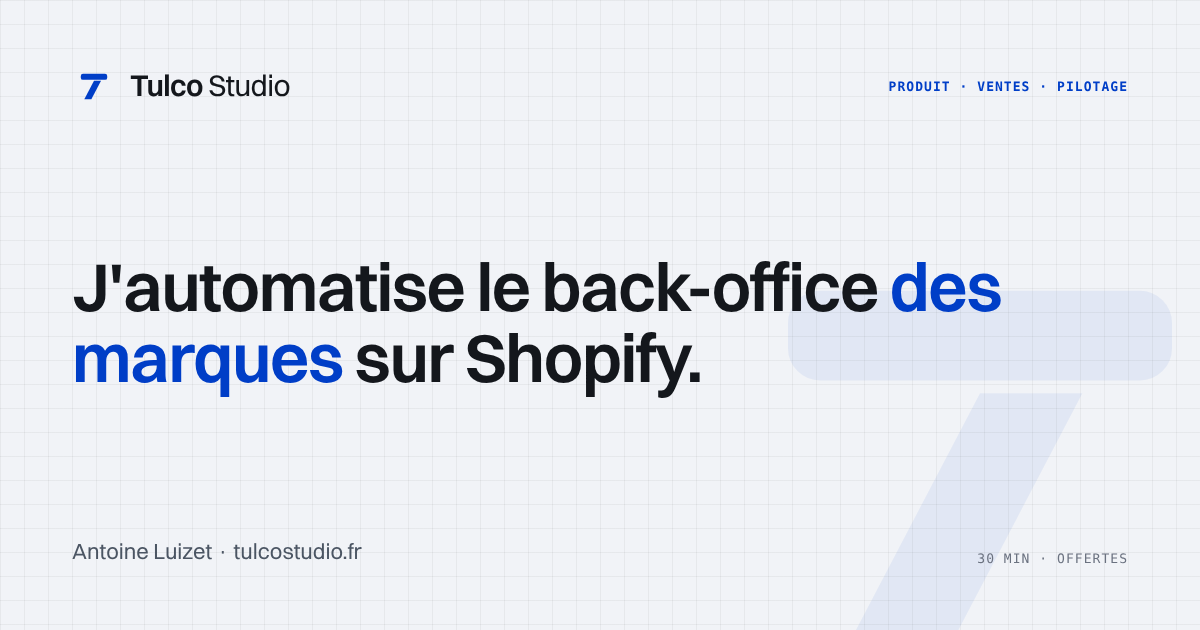
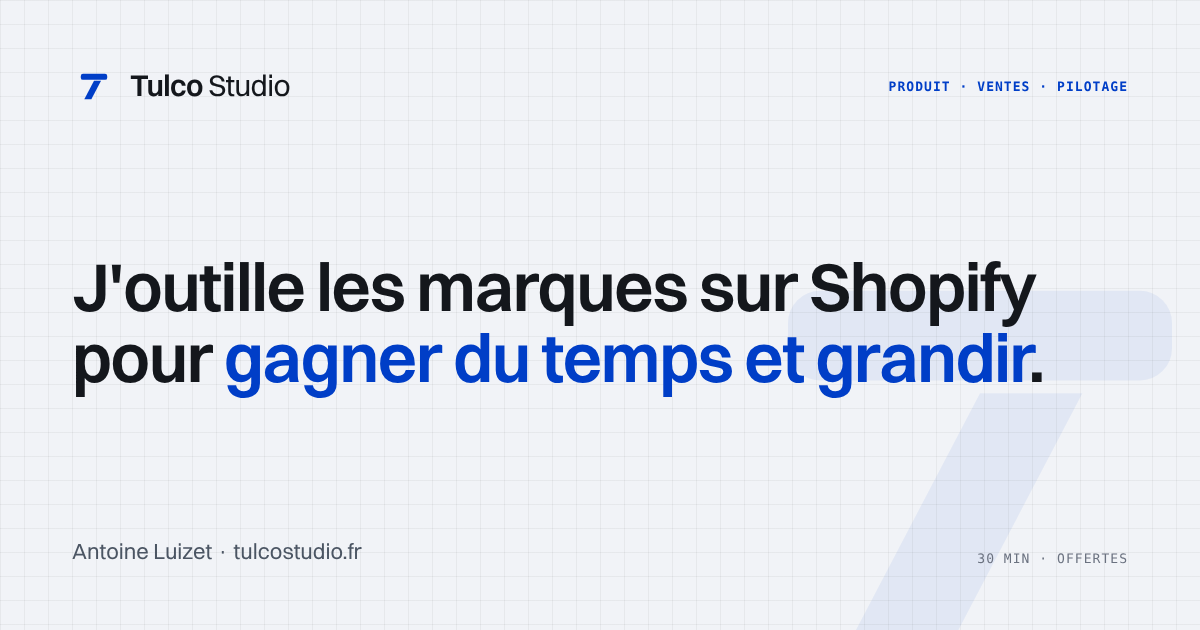
Aligne la landing sur le positionnement v4
Titre, meta, hero, appels à l'action et pied de page passent de
"J'automatise le back-office" à "J'outille les marques sur Shopify
pour gagner du temps et grandir". Constat élargi aux outils rigides et
aux abonnements qui s'empilent, FAQ alignée (sur mesure quand le marché
ne colle pas), images de partage régénérées. FR et EN.

Claude-Session: https://claude.ai/code/session_01DhS4ZWpCwXbypMJPZ8nMSC

Changed region(s): [[0.0617, 0.3921, 0.8633, 0.6333], [0.0925, 0.4524, 0.1542, 0.4825]]

diff --git a/index.html b/index.html
@@ -4,8 +4,8 @@
 <meta charset="utf-8">
 <meta name="viewport" content="width=device-width, initial-scale=1">
 <link rel="icon" type="image/svg+xml" href="favicon.svg">
-<title>Tulco Studio · J'automatise le back-office des marques sur Shopify</title>
-<meta name="description" content="Fiches produit rédigées par l'IA, commandes revendeurs, reporting : j'automatise le back-office des marques sur Shopify pour que vos équipes arrêtent de ressaisir. Ex chef de produit retail.">
+<title>Tulco Studio · J'outille les marques sur Shopify pour gagner du temps et grandir</title>
+<meta name="description" content="Ex-chef de produit retail et product builder, j'outille les marques sur Shopify : outils reliés entre eux, sur mesure quand le marché ne colle pas. Vos équipes arrêtent de ressaisir et gagnent du temps pour grandir.">
 <link rel="canonical" href="https://www.tulcostudio.fr/">
 <link rel="alternate" hreflang="fr" href="https://www.tulcostudio.fr/">
 <link rel="alternate" hreflang="en" href="https://www.tulcostudio.fr/en/">
@@ -13,16 +13,16 @@
 <meta property="og:type" content="website">
 <meta property="og:url" content="https://www.tulcostudio.fr/">
 <meta property="og:site_name" content="Tulco Studio">
-<meta property="og:title" content="Tulco Studio · J'automatise le back-office des marques sur Shopify">
-<meta property="og:description" content="Vos outils se parlent enfin, vos fiches produit s'écrivent seules. Vos équipes arrêtent de ressaisir et se concentrent sur la marque.">
+<meta property="og:title" content="Tulco Studio · J'outille les marques sur Shopify pour gagner du temps et grandir">
+<meta property="og:description" content="Vos commandes, vos stocks et vos fiches produit circulent seuls entre Shopify et vos autres outils. Vos équipes arrêtent de ressaisir et se concentrent sur la marque.">
 <meta property="og:image" content="https://www.tulcostudio.fr/og.png">
 <meta property="og:image:width" content="1200">
 <meta property="og:image:height" content="630">
-<meta property="og:image:alt" content="Tulco Studio : automatisation du back-office des marques sur Shopify">
+<meta property="og:image:alt" content="Tulco Studio : j'outille les marques sur Shopify pour gagner du temps et grandir">
 <meta property="og:locale" content="fr_FR">
 <meta name="twitter:card" content="summary_large_image">
-<meta name="twitter:title" content="Tulco Studio · J'automatise le back-office des marques sur Shopify">
-<meta name="twitter:description" content="Vos outils se parlent enfin, vos fiches produit s'écrivent seules. Vos équipes arrêtent de ressaisir et se concentrent sur la marque.">
+<meta name="twitter:title" content="Tulco Studio · J'outille les marques sur Shopify pour gagner du temps et grandir">
+<meta name="twitter:description" content="Vos commandes, vos stocks et vos fiches produit circulent seuls entre Shopify et vos autres outils. Vos équipes arrêtent de ressaisir et se concentrent sur la marque.">
 <meta name="twitter:image" content="https://www.tulcostudio.fr/og.png">
 <script src="./support.js"></script>
 </head>
@@ -102,6 +102,7 @@
   .tulco-motion .pain-card.tulco-in > div:nth-child(2) { transition-delay: 140ms; }
   .tulco-motion .pain-card.tulco-in > div:nth-child(3) { transition-delay: 280ms; }
   .tulco-motion .pain-card.tulco-in > div:nth-child(4) { transition-delay: 420ms; }
+  .tulco-motion .pain-card.tulco-in > div:nth-child(5) { transition-delay: 560ms; }
   .method-step { position: relative; }
   .tulco-motion .method-step { border-top-color: transparent !important; }
   .tulco-motion .method-step::before { content: ""; position: absolute; left: 0; right: 0; top: calc(-1 * var(--rule-accent)); height: var(--rule-accent); background: var(--accent); transform: scaleX(0); transform-origin: left; }
@@ -226,10 +227,10 @@
     <div style="position: relative; max-width: var(--container-max); margin: 0 auto; padding: clamp(48px,7vw,84px) clamp(20px,5vw,64px) clamp(44px,6vw,72px);">
       <div style="max-width: 900px;">
         <div style="font-family: var(--font-mono); font-size: 12px; font-weight: 600; text-transform: uppercase; letter-spacing: 0.08em; color: var(--accent); margin-bottom: 16px;">Antoine Luizet · Ex-chef de produit retail</div>
-        <h1 style="margin: 0; font-weight: 600; font-size: clamp(36px,6vw,78px); line-height: var(--leading-tight); letter-spacing: var(--tracking-display); color: var(--text-primary);">J'automatise le back-office des marques <span class="nowrap">sur <img src="assets/shopify-logo-mono.svg" alt="Shopify" class="h1-shopify" width="446" height="128"></span></h1>
-        <p style="margin: 24px 0 0; max-width: 620px; font-size: var(--text-lg); line-height: 1.35; color: var(--text-secondary); font-weight: 500;">Vos outils se parlent enfin, vos fiches produit s'écrivent seules. Vos équipes arrêtent de ressaisir et se concentrent sur la marque.</p>
+        <h1 style="margin: 0; font-weight: 600; font-size: clamp(36px,6vw,78px); line-height: var(--leading-tight); letter-spacing: var(--tracking-display); color: var(--text-primary);">J'outille les marques <span class="nowrap">sur <img src="assets/shopify-logo-mono.svg" alt="Shopify" class="h1-shopify" width="446" height="128"></span> pour gagner du temps et grandir</h1>
+        <p style="margin: 24px 0 0; max-width: 620px; font-size: var(--text-lg); line-height: 1.35; color: var(--text-secondary); font-weight: 500;">Vos commandes, vos stocks et vos fiches produit circulent seuls entre Shopify et vos autres outils. Vos équipes arrêtent de ressaisir et se concentrent sur la marque.</p>
         <div class="hero-cta">
-          <x-import component-from-global-scope="TulcoStudioDesignSystem_ac5776.Button" variant="primary" size="lg" onClick="{{ openBooking }}" hint-size="340px,50px">Voir ce qu'on automatiserait en premier</x-import>
+          <x-import component-from-global-scope="TulcoStudioDesignSystem_ac5776.Button" variant="primary" size="lg" onClick="{{ openBooking }}" hint-size="340px,50px">Voir par où je commencerais</x-import>
           <x-import component-from-global-scope="TulcoStudioDesignSystem_ac5776.Button" variant="secondary" size="lg" onClick="{{ jumpFlux }}" hint-size="240px,50px">Découvrir les trois flux</x-import>
         </div>
         <div class="hero-flux">
@@ -246,7 +247,7 @@
       <div>
         <div style="font-family: var(--font-mono); font-size: 12px; font-weight: 600; text-transform: uppercase; letter-spacing: 0.08em; color: var(--accent); margin-bottom: 16px;">Le constat</div>
         <h2 style="margin: 0 0 20px; font-weight: 600; font-size: clamp(26px,4vw,42px); letter-spacing: var(--tracking-heading); max-width: 520px;">Tout passe encore par des fichiers.</h2>
-        <p style="margin: 0; font-size: var(--text-md); line-height: var(--leading-relaxed); color: var(--text-primary); max-width: 460px; font-weight: 500;">Chaque copie crée une erreur. Et une erreur de stock ou de commande, c'est un revendeur qui se lasse.</p>
+        <p style="margin: 0; font-size: var(--text-md); line-height: var(--leading-relaxed); color: var(--text-primary); max-width: 460px; font-weight: 500;">Des outils payés cher, rigides, pas pensés pour votre métier : l'équipe les contourne avec des fichiers. Chaque copie crée une erreur, et une erreur de stock ou de commande, c'est un revendeur qui se lasse.</p>
       </div>
       <div data-reveal="" class="pain-card" style="background: var(--white); border: 1px solid var(--border-default); border-top: var(--rule-accent) solid var(--danger);">
         <div style="display: flex; gap: 14px; align-items: flex-start; padding: var(--space-5) var(--space-6); border-bottom: 1px solid var(--border-default);">
@@ -261,9 +262,13 @@
           <span style="flex: none; width: 8px; height: 8px; margin-top: 7px; background: var(--danger);"></span>
           <p style="margin: 0; font-size: var(--text-sm); line-height: 1.6; color: var(--text-primary);">Le stock ne suit pas entre Shopify, la boutique et l'entrepôt.</p>
         </div>
-        <div style="display: flex; gap: 14px; align-items: flex-start; padding: var(--space-5) var(--space-6);">
+        <div style="display: flex; gap: 14px; align-items: flex-start; padding: var(--space-5) var(--space-6); border-bottom: 1px solid var(--border-default);">
           <span style="flex: none; width: 8px; height: 8px; margin-top: 7px; background: var(--danger);"></span>
           <p style="margin: 0; font-size: var(--text-sm); line-height: 1.6; color: var(--text-primary);">Le lundi, on compile cinq fichiers pour savoir ce qui s'est vendu.</p>
+        </div>
+        <div style="display: flex; gap: 14px; align-items: flex-start; padding: var(--space-5) var(--space-6);">
+          <span style="flex: none; width: 8px; height: 8px; margin-top: 7px; background: var(--danger);"></span>
+          <p style="margin: 0; font-size: var(--text-sm); line-height: 1.6; color: var(--text-primary);">Les abonnements s'empilent, pour des outils rigides que l'équipe contourne avec Excel.</p>
         </div>
       </div>
     </div>
@@ -271,7 +276,7 @@
   <!-- LES TROIS FLUX -->
   <section id="flux" data-screen-label="Flux" style="border-bottom: 1px solid var(--border-default);">
     <div style="max-width: var(--container-max); margin: 0 auto; padding: clamp(48px,8vw,96px) clamp(20px,5vw,64px);">
-      <div style="font-family: var(--font-mono); font-size: 12px; font-weight: 600; text-transform: uppercase; letter-spacing: 0.08em; color: var(--accent); margin-bottom: 16px;">Ce que j'automatise</div>
+      <div style="font-family: var(--font-mono); font-size: 12px; font-weight: 600; text-transform: uppercase; letter-spacing: 0.08em; color: var(--accent); margin-bottom: 16px;">Ce que je mets en place</div>
       <h2 style="margin: 0 0 clamp(36px,5vw,56px); font-weight: 600; font-size: clamp(26px,4vw,42px); letter-spacing: var(--tracking-heading); max-width: 720px;">Trois flux. Une info saisie une fois, juste partout.</h2>
       <div data-reveal="" style="border: 1px solid var(--border-default); border-top: var(--rule-accent) solid var(--accent);">
         <div class="flux-grid">
@@ -323,7 +328,7 @@
           <img src="assets/antoine.png" alt="Antoine Luizet, fondateur de Tulco Studio" style="width: 200px; height: 200px; max-width: 100%; border-radius: 50%; display: block; border: 2px solid var(--accent);">
           <div>
             <div style="font-weight: 600; font-size: var(--text-lg); letter-spacing: var(--tracking-normal);">Antoine Luizet</div>
-            <div style="font-family: var(--font-mono); font-size: 12px; text-transform: uppercase; letter-spacing: 0.04em; color: var(--text-tertiary); margin-top: 5px;">Fondateur · Tulco Studio</div>
+            <div style="font-family: var(--font-mono); font-size: 12px; text-transform: uppercase; letter-spacing: 0.04em; color: var(--text-tertiary); margin-top: 5px;">Product builder freelance · Tulco Studio</div>
           </div>
         </div>
         <p style="margin: 0; max-width: 600px; font-size: var(--text-lg); line-height: 1.45; color: var(--text-primary); font-weight: 500;">J'ai passé 8 ans du côté des marques avant de construire des outils. Je parle collection, revendeurs et stocks, et je sais les traduire en flux qui tournent.</p>
@@ -525,7 +530,7 @@
     <div style="max-width: var(--container-max); margin: 0 auto; padding: clamp(52px,8vw,104px) clamp(20px,5vw,64px);">
       <div style="max-width: 720px;">
         <h2 style="margin: 0; font-weight: 600; font-size: clamp(28px,4.4vw,52px); line-height: var(--leading-tight); letter-spacing: var(--tracking-heading);">Vos équipes passent trop de temps à ressaisir ?</h2>
-        <p style="margin: 20px 0 0; font-size: var(--text-md); line-height: var(--leading-relaxed); color: rgba(255,255,255,0.82); max-width: 600px;">En 30 minutes, on regarde ce qu'on automatiserait en premier. Offert, sans engagement.</p>
+        <p style="margin: 20px 0 0; font-size: var(--text-md); line-height: var(--leading-relaxed); color: rgba(255,255,255,0.82); max-width: 600px;">En 30 minutes, on regarde par où je commencerais chez vous. Offert, sans engagement.</p>
         <div style="display: flex; gap: 12px; margin-top: 32px; flex-wrap: wrap; align-items: center;">
           <x-import component-from-global-scope="TulcoStudioDesignSystem_ac5776.Button" variant="secondary" size="lg" onClick="{{ openBooking }}" hint-size="220px,50px">Réserver 30 minutes</x-import>
           <span style="font-family: var(--font-mono); font-size: 11px; text-transform: uppercase; letter-spacing: 0.05em; color: rgba(255,255,255,0.6);">Antoine Luizet · Tulco Studio · Biarritz, France</span>
@@ -538,7 +543,7 @@
     <div style="max-width: var(--container-max); margin: 0 auto; display: flex; flex-wrap: wrap; gap: 48px; justify-content: space-between;">
       <div style="max-width: 360px; display: flex; flex-direction: column; gap: 16px;">
         <x-import component-from-global-scope="TulcoStudioDesignSystem_ac5776.Logo" variant="horizontal" tone="white" height="24" hint-size="150px,24px"></x-import>
-        <p style="margin: 0; font-size: var(--text-sm); line-height: 1.6; color: rgba(255,255,255,0.6);">J'automatise le back-office des marques sur Shopify : produit, ventes, pilotage.</p>
+        <p style="margin: 0; font-size: var(--text-sm); line-height: 1.6; color: rgba(255,255,255,0.6);">J'outille les marques sur Shopify pour gagner du temps et grandir : produit, ventes, pilotage.</p>
       </div>
       <div style="display: flex; gap: 64px; flex-wrap: wrap;">
         <div style="display: flex; flex-direction: column; gap: 10px;">
@@ -663,8 +668,8 @@ class Component extends DCLogic {
   renderVals() {
     const items = [
       { q: "Ça va coûter cher ?", a: "On commence par un seul flux, celui qui coûte le plus en ressaisie. Le diagnostic chiffre le gain avant que vous vous engagiez." },
-      { q: "Vous êtes une agence Shopify ?", a: "Non. Les agences Shopify font le site et la conversion. Moi, je branche Shopify au reste du back-office : ERP, PIM, CRM, expéditions, pilotage." },
-      { q: "Faut-il changer d'outils ?", a: "Non. Vos outils existants d'abord, du sur mesure seulement là où il manque quelque chose." },
+      { q: "Vous êtes une agence Shopify ?", a: "Non. Les agences Shopify font le site et la conversion. Moi, je relie Shopify au reste de vos outils : ERP, PIM, CRM, expéditions, pilotage. Et je développe sur mesure ce qui manque." },
+      { q: "Faut-il changer d'outils ?", a: "Non. Vos outils existants d'abord, et des outils sur mesure là où ceux du marché ne collent pas à votre métier." },
       { q: "Il existe déjà une app pour relier Shopify à mon ERP.", a: "Oui, pour synchroniser deux outils. Le vrai sujet, c'est le flux entier et vos règles métier." },
       { q: "Shopify rédige déjà des descriptions, non ?", a: "Shopify propose un assistant de rédaction. Ici, chaque fiche arrive déjà rédigée depuis vos données de collection, SEO compris, dans le ton de la marque." },
       { q: "Combien de temps ça prend ?", a: "Un flux à la fois, livré par petits lots. Vos équipes s'en servent vite, sans tunnel de plusieurs mois." },

diff --git a/en/index.html b/en/index.html
@@ -4,8 +4,8 @@
 <meta charset="utf-8">
 <meta name="viewport" content="width=device-width, initial-scale=1">
 <link rel="icon" type="image/svg+xml" href="../favicon.svg">
-<title>Tulco Studio · Back-office automation for Shopify brands</title>
-<meta name="description" content="AI-written product listings, wholesale orders, reporting: I automate the back office behind Shopify brands so your team stops re-keying data. Former retail product manager.">
+<title>Tulco Studio · I equip Shopify brands to save time and grow</title>
+<meta name="description" content="Former retail product manager and product builder, I equip Shopify brands with tools that work together, custom-built when off-the-shelf doesn't fit. Your team stops re-keying data and gains time to grow.">
 <link rel="canonical" href="https://www.tulcostudio.fr/en/">
 <link rel="alternate" hreflang="fr" href="https://www.tulcostudio.fr/">
 <link rel="alternate" hreflang="en" href="https://www.tulcostudio.fr/en/">
@@ -13,16 +13,16 @@
 <meta property="og:type" content="website">
 <meta property="og:url" content="https://www.tulcostudio.fr/en/">
 <meta property="og:site_name" content="Tulco Studio">
-<meta property="og:title" content="Tulco Studio · Back-office automation for Shopify brands">
-<meta property="og:description" content="Your tools finally talk to each other, your product pages write themselves. Your team stops re-keying data and focuses on the brand.">
+<meta property="og:title" content="Tulco Studio · I equip Shopify brands to save time and grow">
+<meta property="og:description" content="Your orders, stock and product pages flow on their own between Shopify and your other tools. Your team stops re-keying data and focuses on the brand.">
 <meta property="og:image" content="https://www.tulcostudio.fr/og-en.png">
 <meta property="og:image:width" content="1200">
 <meta property="og:image:height" content="630">
-<meta property="og:image:alt" content="Tulco Studio: back-office automation for Shopify brands">
+<meta property="og:image:alt" content="Tulco Studio: I equip Shopify brands to save time and grow">
 <meta property="og:locale" content="en_GB">
 <meta name="twitter:card" content="summary_large_image">
-<meta name="twitter:title" content="Tulco Studio · Back-office automation for Shopify brands">
-<meta name="twitter:description" content="Your tools finally talk to each other, your product pages write themselves. Your team stops re-keying data and focuses on the brand.">
+<meta name="twitter:title" content="Tulco Studio · I equip Shopify brands to save time and grow">
+<meta name="twitter:description" content="Your orders, stock and product pages flow on their own between Shopify and your other tools. Your team stops re-keying data and focuses on the brand.">
 <meta name="twitter:image" content="https://www.tulcostudio.fr/og-en.png">
 <script src="../support.js"></script>
 </head>
@@ -102,6 +102,7 @@
   .tulco-motion .pain-card.tulco-in > div:nth-child(2) { transition-delay: 140ms; }
   .tulco-motion .pain-card.tulco-in > div:nth-child(3) { transition-delay: 280ms; }
   .tulco-motion .pain-card.tulco-in > div:nth-child(4) { transition-delay: 420ms; }
+  .tulco-motion .pain-card.tulco-in > div:nth-child(5) { transition-delay: 560ms; }
   .method-step { position: relative; }
   .tulco-motion .method-step { border-top-color: transparent !important; }
   .tulco-motion .method-step::before { content: ""; position: absolute; left: 0; right: 0; top: calc(-1 * var(--rule-accent)); height: var(--rule-accent); background: var(--accent); transform: scaleX(0); transform-origin: left; }
@@ -226,10 +227,10 @@
     <div style="position: relative; max-width: var(--container-max); margin: 0 auto; padding: clamp(48px,7vw,84px) clamp(20px,5vw,64px) clamp(44px,6vw,72px);">
       <div style="max-width: 900px;">
         <div style="font-family: var(--font-mono); font-size: 12px; font-weight: 600; text-transform: uppercase; letter-spacing: 0.08em; color: var(--accent); margin-bottom: 16px;">Antoine Luizet · Ex-retail product lead</div>
-        <h1 style="margin: 0; font-weight: 600; font-size: clamp(36px,6vw,78px); line-height: var(--leading-tight); letter-spacing: var(--tracking-display); color: var(--text-primary);">I automate the back office of brands <span class="nowrap">on <img src="../assets/shopify-logo-mono.svg" alt="Shopify" class="h1-shopify" width="446" height="128"></span></h1>
-        <p style="margin: 24px 0 0; max-width: 620px; font-size: var(--text-lg); line-height: 1.35; color: var(--text-secondary); font-weight: 500;">Your tools finally talk to each other, your product pages write themselves. Your team stops re-keying data and focuses on the brand.</p>
+        <h1 style="margin: 0; font-weight: 600; font-size: clamp(36px,6vw,78px); line-height: var(--leading-tight); letter-spacing: var(--tracking-display); color: var(--text-primary);">I equip brands <span class="nowrap">on <img src="../assets/shopify-logo-mono.svg" alt="Shopify" class="h1-shopify" width="446" height="128"></span> to save time and grow</h1>
+        <p style="margin: 24px 0 0; max-width: 620px; font-size: var(--text-lg); line-height: 1.35; color: var(--text-secondary); font-weight: 500;">Your orders, stock and product pages flow on their own between Shopify and your other tools. Your team stops re-keying data and focuses on the brand.</p>
         <div class="hero-cta">
-          <x-import component-from-global-scope="TulcoStudioDesignSystem_ac5776.Button" variant="primary" size="lg" onClick="{{ openBooking }}" hint-size="340px,50px">See what we'd automate first</x-import>
+          <x-import component-from-global-scope="TulcoStudioDesignSystem_ac5776.Button" variant="primary" size="lg" onClick="{{ openBooking }}" hint-size="340px,50px">See where I'd start</x-import>
           <x-import component-from-global-scope="TulcoStudioDesignSystem_ac5776.Button" variant="secondary" size="lg" onClick="{{ jumpFlux }}" hint-size="240px,50px">Explore the three flows</x-import>
         </div>
         <div class="hero-flux">
@@ -246,7 +247,7 @@
       <div>
         <div style="font-family: var(--font-mono); font-size: 12px; font-weight: 600; text-transform: uppercase; letter-spacing: 0.08em; color: var(--accent); margin-bottom: 16px;">The problem</div>
         <h2 style="margin: 0 0 20px; font-weight: 600; font-size: clamp(26px,4vw,42px); letter-spacing: var(--tracking-heading); max-width: 520px;">Everything still runs on spreadsheets.</h2>
-        <p style="margin: 0; font-size: var(--text-md); line-height: var(--leading-relaxed); color: var(--text-primary); max-width: 460px; font-weight: 500;">Every copy creates an error. And a stock or order error is a retailer losing patience.</p>
+        <p style="margin: 0; font-size: var(--text-md); line-height: var(--leading-relaxed); color: var(--text-primary); max-width: 460px; font-weight: 500;">Expensive, rigid tools that weren't built for your trade: your team works around them with files. Every copy creates an error, and a stock or order error is a retailer losing patience.</p>
       </div>
       <div data-reveal="" class="pain-card" style="background: var(--white); border: 1px solid var(--border-default); border-top: var(--rule-accent) solid var(--danger);">
         <div style="display: flex; gap: 14px; align-items: flex-start; padding: var(--space-5) var(--space-6); border-bottom: 1px solid var(--border-default);">
@@ -261,9 +262,13 @@
           <span style="flex: none; width: 8px; height: 8px; margin-top: 7px; background: var(--danger);"></span>
           <p style="margin: 0; font-size: var(--text-sm); line-height: 1.6; color: var(--text-primary);">Stock doesn't match between Shopify, the store and the warehouse.</p>
         </div>
-        <div style="display: flex; gap: 14px; align-items: flex-start; padding: var(--space-5) var(--space-6);">
+        <div style="display: flex; gap: 14px; align-items: flex-start; padding: var(--space-5) var(--space-6); border-bottom: 1px solid var(--border-default);">
           <span style="flex: none; width: 8px; height: 8px; margin-top: 7px; background: var(--danger);"></span>
           <p style="margin: 0; font-size: var(--text-sm); line-height: 1.6; color: var(--text-primary);">Every Monday, five files get merged to see what sold.</p>
+        </div>
+        <div style="display: flex; gap: 14px; align-items: flex-start; padding: var(--space-5) var(--space-6);">
+          <span style="flex: none; width: 8px; height: 8px; margin-top: 7px; background: var(--danger);"></span>
+          <p style="margin: 0; font-size: var(--text-sm); line-height: 1.6; color: var(--text-primary);">Subscriptions pile up for rigid tools your team works around with Excel.</p>
         </div>
       </div>
     </div>
@@ -271,7 +276,7 @@
   <!-- LES TROIS FLUX -->
   <section id="flux" data-screen-label="Flux" style="border-bottom: 1px solid var(--border-default);">
     <div style="max-width: var(--container-max); margin: 0 auto; padding: clamp(48px,8vw,96px) clamp(20px,5vw,64px);">
-      <div style="font-family: var(--font-mono); font-size: 12px; font-weight: 600; text-transform: uppercase; letter-spacing: 0.08em; color: var(--accent); margin-bottom: 16px;">What I automate</div>
+      <div style="font-family: var(--font-mono); font-size: 12px; font-weight: 600; text-transform: uppercase; letter-spacing: 0.08em; color: var(--accent); margin-bottom: 16px;">What I set up</div>
       <h2 style="margin: 0 0 clamp(36px,5vw,56px); font-weight: 600; font-size: clamp(26px,4vw,42px); letter-spacing: var(--tracking-heading); max-width: 720px;">Three flows. Enter it once, it's right everywhere.</h2>
       <div data-reveal="" style="border: 1px solid var(--border-default); border-top: var(--rule-accent) solid var(--accent);">
         <div class="flux-grid">
@@ -323,7 +328,7 @@
           <img src="../assets/antoine.png" alt="Antoine Luizet, founder of Tulco Studio" style="width: 200px; height: 200px; max-width: 100%; border-radius: 50%; display: block; border: 2px solid var(--accent);">
           <div>
             <div style="font-weight: 600; font-size: var(--text-lg); letter-spacing: var(--tracking-normal);">Antoine Luizet</div>
-            <div style="font-family: var(--font-mono); font-size: 12px; text-transform: uppercase; letter-spacing: 0.04em; color: var(--text-tertiary); margin-top: 5px;">Founder · Tulco Studio</div>
+            <div style="font-family: var(--font-mono); font-size: 12px; text-transform: uppercase; letter-spacing: 0.04em; color: var(--text-tertiary); margin-top: 5px;">Freelance product builder · Tulco Studio</div>
           </div>
         </div>
         <p style="margin: 0; max-width: 600px; font-size: var(--text-lg); line-height: 1.45; color: var(--text-primary); font-weight: 500;">I spent 8 years on the brand side before building tools. I speak collections, retailers and stock, and I know how to turn them into flows that run.</p>
@@ -525,7 +530,7 @@
     <div style="max-width: var(--container-max); margin: 0 auto; padding: clamp(52px,8vw,104px) clamp(20px,5vw,64px);">
       <div style="max-width: 720px;">
         <h2 style="margin: 0; font-weight: 600; font-size: clamp(28px,4.4vw,52px); line-height: var(--leading-tight); letter-spacing: var(--tracking-heading);">Is your team spending too much time re-keying data?</h2>
-        <p style="margin: 20px 0 0; font-size: var(--text-md); line-height: var(--leading-relaxed); color: rgba(255,255,255,0.82); max-width: 600px;">In 30 minutes, we look at what we'd automate first. Free, no commitment.</p>
+        <p style="margin: 20px 0 0; font-size: var(--text-md); line-height: var(--leading-relaxed); color: rgba(255,255,255,0.82); max-width: 600px;">In 30 minutes, we look at where I'd start for you. Free, no commitment.</p>
         <div style="display: flex; gap: 12px; margin-top: 32px; flex-wrap: wrap; align-items: center;">
           <x-import component-from-global-scope="TulcoStudioDesignSystem_ac5776.Button" variant="secondary" size="lg" onClick="{{ openBooking }}" hint-size="220px,50px">Book 30 minutes</x-import>
           <span style="font-family: var(--font-mono); font-size: 11px; text-transform: uppercase; letter-spacing: 0.05em; color: rgba(255,255,255,0.6);">Antoine Luizet · Tulco Studio · Biarritz, France</span>
@@ -538,7 +543,7 @@
     <div style="max-width: var(--container-max); margin: 0 auto; display: flex; flex-wrap: wrap; gap: 48px; justify-content: space-between;">
       <div style="max-width: 360px; display: flex; flex-direction: column; gap: 16px;">
         <x-import component-from-global-scope="TulcoStudioDesignSystem_ac5776.Logo" variant="horizontal" tone="white" height="24" hint-size="150px,24px"></x-import>
-        <p style="margin: 0; font-size: var(--text-sm); line-height: 1.6; color: rgba(255,255,255,0.6);">I automate the back office of brands on Shopify: product, sales, reporting.</p>
+        <p style="margin: 0; font-size: var(--text-sm); line-height: 1.6; color: rgba(255,255,255,0.6);">I equip brands on Shopify to save time and grow: product, sales, reporting.</p>
       </div>
       <div style="display: flex; gap: 64px; flex-wrap: wrap;">
         <div style="display: flex; flex-direction: column; gap: 10px;">
@@ -663,8 +668,8 @@ class Component extends DCLogic {
   renderVals() {
     const items = [
       { q: "Is it expensive?", a: "We start with one flow, the one that costs you most in re-keying. The audit quantifies the gain before you commit." },
-      { q: "Are you a Shopify agency?", a: "No. Shopify agencies build the store and drive conversion. I connect Shopify to the rest of your back office: ERP, PIM, CRM, shipping, reporting." },
-      { q: "Do we need to change tools?", a: "No. Your existing tools first, custom work only where something is missing." },
+      { q: "Are you a Shopify agency?", a: "No. Shopify agencies build the store and drive conversion. I connect Shopify to the rest of your tools: ERP, PIM, CRM, shipping, reporting. And I custom-build what's missing." },
+      { q: "Do we need to change tools?", a: "No. Your existing tools first, and custom-built tools where off-the-shelf ones don't fit your trade." },
       { q: "There's already an app to connect Shopify to my ERP.", a: "Yes, to sync two tools. The real issue is the whole flow and your business rules." },
       { q: "Doesn't Shopify already write descriptions?", a: "Shopify offers a writing assistant. Here, every product page arrives already written from your collection data, SEO included, in the brand's voice." },
       { q: "How long does it take?", a: "One flow at a time, delivered in small batches. Your team uses it quickly, no months-long tunnel." },

diff --git a/og-card.html b/og-card.html
@@ -97,7 +97,7 @@
   </div>
 
   <div class="headline">
-    J'automatise le back-office <span class="accent">des marques</span> sur Shopify.
+    J'outille les marques sur Shopify pour <span class="accent">gagner du temps et grandir</span>.
   </div>
 
   <div class="footer">

diff --git a/og-card-en.html b/og-card-en.html
@@ -97,7 +97,7 @@
   </div>
 
   <div class="headline">
-    I automate the back office of <span class="accent">brands</span> on Shopify.
+    I equip Shopify brands to <span class="accent">save time and grow</span>.
   </div>
 
   <div class="footer">

diff --git a/README.md b/README.md
@@ -1,6 +1,6 @@
 # Tulco Studio · Landing Page
 
-Landing page d'Antoine Luizet / Tulco Studio : automatisation du back-office des marques sur Shopify (produit, ventes, pilotage).
+Landing page d'Antoine Luizet / Tulco Studio : j'outille les marques sur Shopify pour gagner du temps et grandir (produit, ventes, pilotage).
 
 ## Live
 
